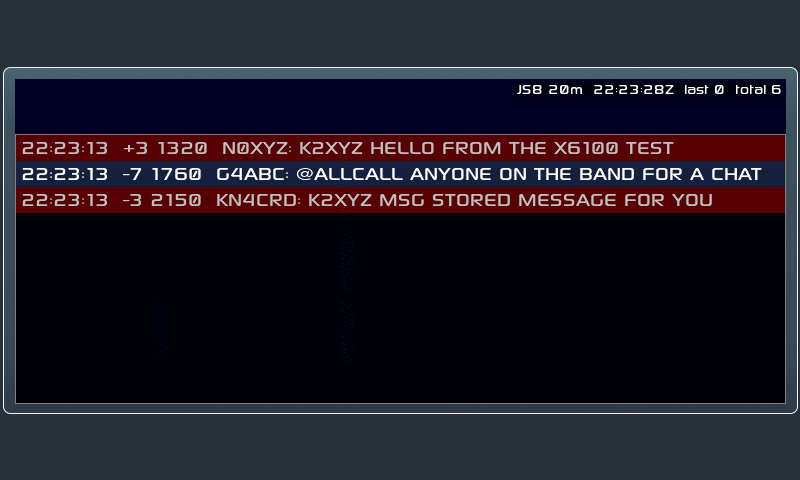
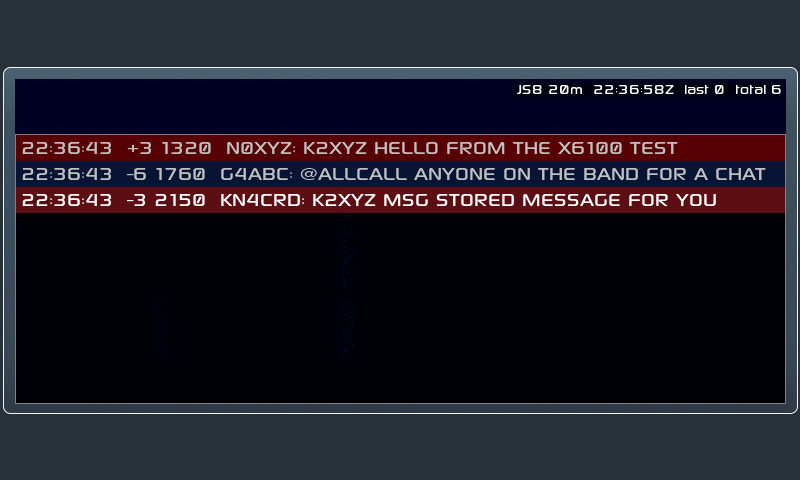
JS8: make the list follow new messages; MFK selection marks offsets
The list's auto-follow sent one LV_KEY_DOWN, which from 'no selection'
only reaches row 0, so it never followed. The FT8 table uses the same
pattern. follow() now places the selection above the last row and steps
down, which also runs lv_table's internal scroll-into-view.

Moving the selection with the MFK now marks that message's offset on the
waterfall. A tap also shows callsign and SNR. Auto-follow is excluded, so
the marker only moves when the user moves it.

The UI harness caught this: after two MFK steps up from the newest row,
the marker was on the first row. It now presses LEFT twice and checks the
result in a screenshot.

Changed region(s): [[0.0312, 0.2812, 0.9688, 0.375], [0.0312, 0.4062, 0.9062, 0.4375], [0.7812, 0.1562, 0.8125, 0.2188]]

diff --git a/src/dialog_js8.c b/src/dialog_js8.c
@@ -151,6 +151,8 @@ static void format_row(const js8_rx_msg_t *m, char *buf, size_t size) {
              m->checksum < 0 ? "  (bad checksum)" : "");
 }
 
+static bool auto_selecting; /* follow() is moving the selection, not the user */
+
 /* Keep following new rows if the selection is on the last one. */
 static bool at_bottom(void) {
     uint16_t sel_row = 0, sel_col = 0;
@@ -158,9 +160,24 @@ static bool at_bottom(void) {
     return rows == 0 || sel_row == LV_TABLE_CELL_NONE || sel_row + 1 >= rows;
 }
 
+/* Select the last row and scroll it into view. lv_table 8.3 has no setter
+ * for the selection, so put it one row above and let the table's own key
+ * handler step down: that also runs its scroll-to-selected logic. */
 static void follow(void) {
-    static uint32_t key = LV_KEY_DOWN;
-    lv_event_send(table, LV_EVENT_KEY, &key);
+    if (rows == 0) return;
+    lv_table_t *t   = (lv_table_t *)table;
+    auto_selecting  = true;
+    if (rows == 1) {
+        t->row_act = 0;
+        t->col_act = 0;
+        lv_obj_invalidate(table);
+    } else {
+        static uint32_t key = LV_KEY_DOWN;
+        t->row_act          = rows - 2;
+        t->col_act          = 0;
+        lv_event_send(table, LV_EVENT_KEY, &key);
+    }
+    auto_selecting = false;
 }
 
 static void append_row(const char *text, int16_t hist) {
@@ -273,8 +290,9 @@ static void table_draw_cb(lv_event_t *e) {
     if (sel_row == row) dsc->rect_dsc->bg_color = lv_color_lighten(dsc->rect_dsc->bg_color, 30);
 }
 
-static void table_press_cb(lv_event_t *e) {
-    (void)e;
+/* Mark the selected message's offset on the waterfall; `announce` also
+ * pops up who it is (on a tap, not on every MFK step). */
+static void mark_selected(bool announce) {
     uint16_t row, col;
     lv_table_get_selected_cell(table, &row, &col);
     if (row >= rows || row_hist[row] < 0) {
@@ -285,9 +303,19 @@ static void table_press_cb(lv_event_t *e) {
     const js8_rx_msg_t *m = &history[row_hist[row]];
     lv_finder_set_value(finder, (int16_t)(m->freq_hz + 0.5f));
     lv_obj_invalidate(finder);
-    if (m->from[0]) {
+    if (announce && m->from[0]) {
         msg_update_text_fmt("%s at %.0f Hz, %+d dB", m->from, m->freq_hz, m->snr);
     }
+}
+
+static void table_press_cb(lv_event_t *e) {
+    (void)e;
+    mark_selected(true);
+}
+
+static void table_select_cb(lv_event_t *e) {
+    (void)e;
+    if (!auto_selecting) mark_selected(false);
 }
 
 /* ---- Receiver callbacks (worker threads) ------------------------------- */
@@ -493,6 +521,7 @@ static void construct_cb(lv_obj_t *parent) {
     table = lv_table_create(dialog.obj);
     lv_obj_remove_style(table, NULL, LV_STATE_ANY | LV_PART_MAIN);
     lv_obj_add_event_cb(table, table_press_cb, LV_EVENT_PRESSED, NULL);
+    lv_obj_add_event_cb(table, table_select_cb, LV_EVENT_VALUE_CHANGED, NULL);
     lv_obj_add_event_cb(table, key_cb, LV_EVENT_KEY, NULL);
     lv_obj_add_event_cb(table, table_draw_cb, LV_EVENT_DRAW_PART_BEGIN, NULL);
     lv_obj_set_size(table, WIDTH, WF_HEIGHT - WF_VISIBLE);

diff --git a/tools/js8_ui_harness/main.cpp b/tools/js8_ui_harness/main.cpp
@@ -156,6 +156,12 @@ int main() {
     pump(200);
     screenshot("04_all.ppm");
 
+    // MFK two steps back: the selection moves up and the finder marks it.
+    ui_key(LV_KEY_LEFT);
+    ui_key(LV_KEY_LEFT);
+    pump(200);
+    screenshot("04b_mfk_select.ppm");
+
     // Band change, then close with ESC.
     ui_band_up();
     pump(200);

diff --git a/README.md b/README.md
@@ -29,8 +29,9 @@ keys step through JS8Call's standard dial frequencies) and starts decoding.
 | Time Sync *(page 2)* | Snap the clock to the nearest 15 s. JS8 needs the clock within about ±1 s of UTC. |
 | Test WAV *(page 2)* | Decode `/mnt/js8_test.wav` instead of the radio audio: see [test-audio](test-audio). |
 
-Rows show UTC time, SNR, audio offset and the message. The MFK scrolls the
-list; tap a row to mark its offset on the waterfall. Multi-frame messages appear
+Rows show UTC time, SNR, audio offset and the message. The MFK moves through
+the list and marks the selected station's offset on the waterfall; tapping a
+row also shows its callsign and SNR. Multi-frame messages appear
 once their last frame arrives. Buffered commands such as `MSG` have their
 checksum verified and removed, as in desktop JS8Call.
 
